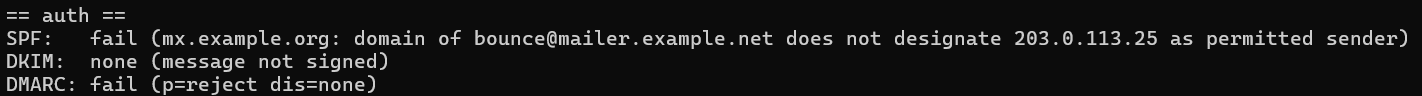
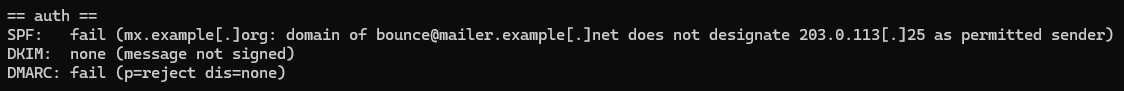
Defang output by default, add --fang and lookalike highlighting

diff --git a/oakpost.py b/oakpost.py
@@ -1,7 +1,9 @@
 """oakpost — email header triage for the person writing the sample up."""
 
+import os
 import sys
 import re
+import unicodedata
 from email import policy
 from email.parser import BytesParser
 
@@ -87,18 +89,88 @@ COMMANDS = {
 }
 
 
+# --- Display helpers -------------------------------------------------------
+# Text in, text out. They change how a value looks on screen, never what was found,
+# so the analysis above always works on the real, raw email.
+
+SCHEME_PATTERN = re.compile(r"\bhttp(s?)://", re.IGNORECASE)
+IP_PATTERN = re.compile(r"\b(\d{1,3}\.\d{1,3}\.\d{1,3})\.(\d{1,3})\b")
+DOMAIN_PATTERN = re.compile(r"\b((?:[\w-]+\.)*[\w-]+)\.([^\W\d_]{2,63})\b")
+
+def defang(text):
+    """Make links, domains and IPs safe to show: hxxps://, example[.]com, 203.0.113[.]25."""
+    text = SCHEME_PATTERN.sub(r"hxxp\1://", text)
+    text = IP_PATTERN.sub(r"\1[.]\2", text)
+    return DOMAIN_PATTERN.sub(r"\1[.]\2", text)
+
+def is_lookalike(char, word):
+    """True if char is a non-Latin stand-in for a plain letter or digit."""
+    if char.isascii() or not char.isalnum():
+        return False
+    plain = unicodedata.normalize("NFKC", char)
+    if plain.isascii() and plain.isalnum():
+        return True  # a styled copy of a plain letter, e.g. mathematical sans-serif or fullwidth
+    script = unicodedata.name(char, "").split(" ")[0]
+    # a Greek or Cyrillic letter inside an otherwise English word, e.g. the Greek T in "TV LICENSING"
+    return script != "LATIN" and any(c.isascii() and c.isalpha() for c in word)
+
+LOOKALIKE_COLOUR = "\033[1;97;41m"  # bold white on a red background
+RESET_COLOUR = "\033[0m"
+WORD_PATTERN = re.compile(r"\w+")
+
+def colour_lookalikes(text):
+    """Colour lookalike characters so they stand out in the terminal."""
+    def colour_word(match):
+        word = match.group()
+        return "".join(
+            f"{LOOKALIKE_COLOUR}{c}{RESET_COLOUR}" if is_lookalike(c, word) else c
+            for c in word
+        )
+    return WORD_PATTERN.sub(colour_word, text)
+
+def count_lookalikes(text):
+    """How many lookalike characters a value contains."""
+    return sum(
+        is_lookalike(c, word) for word in WORD_PATTERN.findall(text) for c in word
+    )
+
+
 # --- Output ----------------------------------------------------------------
 # Each takes data and prints it. None of them work anything out.
 
-def print_section(title, pairs):
-    """Print a titled block of aligned label/value lines."""
+def print_section(title, pairs, fang=False, colour=False):
+    """Print a titled block of aligned label/value lines.
+
+    Every value is defanged on the way out unless fang is True, so nothing can print
+    a live link by accident. colour marks lookalike characters (terminal only).
+    Returns how many lookalike characters it printed, for the note at the end.
+    """
     print(f"\n== {title} ==")
     if not pairs:
         print("(nothing found)")
-        return
+        return 0
     width = max(len(key) for key in pairs) + 1
+    lookalikes = 0
     for key, value in pairs.items():
+        value = str(value)
+        if not fang:
+            value = defang(value)
+        lookalikes += count_lookalikes(value)
+        if colour:
+            value = colour_lookalikes(value)
         print((key + ":").ljust(width), value)
+    return lookalikes
+
+def print_lookalike_note(count, colour):
+    """One sentence explaining lookalike letters, printed only when some were found."""
+    if not count:
+        return
+    shown = " (highlighted in red)" if colour else ""
+    print(
+        f"\nNote: {count} lookalike letter{'s' if count != 1 else ''} found{shown}. "
+        "Disguised characters are often used to dodge keyword filters. "
+        "This could be an indicator if unexpected."
+    )
 
 
 # --- Entry point -----------------------------------------------------------
@@ -117,9 +189,14 @@ def looks_like_email(msg):
 def main():
     args = sys.argv[1:]
 
+    # --fang can go anywhere in the command. It shows links live instead of defanged.
+    fang = "--fang" in args
+    args = [a for a in args if a != "--fang"]
+
     if not args:
-        print("usage: oakpost.py [command] <sample.eml>")
+        print("usage: oakpost.py [command] [--fang] <sample.eml>")
         print("commands:", ", ".join(COMMANDS))
+        print("--fang:   show links live instead of defanged (they're defanged by default)")
         return
 
     if args[0] in COMMANDS:
@@ -139,8 +216,19 @@ def main():
     if not looks_like_email(msg):
         fail(f"{path} doesn't look like an email (none of: {', '.join(EXPECTED_HEADERS)})")
 
+    # Colour only when printing straight to a terminal. Saved to a file or piped into
+    # another tool, the colour codes would show up as junk characters.
+    colour = sys.stdout.isatty() and "NO_COLOR" not in os.environ
+    if colour and os.name == "nt":
+        os.system("")  # switches on colour support in the older Windows console
+
+    if fang:
+        print("WARNING: --fang is on, so links below are live. Don't click them.")
+
+    lookalikes = 0
     for name in chosen:
-        print_section(name, COMMANDS[name](msg))
+        lookalikes += print_section(name, COMMANDS[name](msg), fang=fang, colour=colour)
+    print_lookalike_note(lookalikes, colour)
 
 
 if __name__ == "__main__":

diff --git a/README.md b/README.md
@@ -16,7 +16,7 @@ It runs locally and only reads the file you give it. Nothing is uploaded anywher
 
 1. **Load** — oakpost reads the `.eml` file and parses it into a message.
 2. **Analyse** — each command is one small function that takes the message and returns its findings. None of them print anything, so each can be tested on its own.
-3. **Print** — one output function prints whatever the analysis returned, as a titled section.
+3. **Print** — one output function prints whatever the analysis returned, as a titled section. On the way out it defangs every link, domain and IP, and highlights lookalike characters in colour.
 
 Run it with no command and it runs every analysis. Name a command and you get just that section.
 
@@ -37,13 +37,13 @@ Catching a link that pretends to be somewhere else:
 $ python oakpost.py urls examples/demo.eml
 
 == urls ==
-1: https://www.example.com/storage  (plain, html)
-2: https://login.example.net/mailbox/verify  (html, <a href="https://login.example.net/mailbox/verify">https://www.example.com/storage</a>)
+1: hxxps://www.example[.]com/storage  (plain, html)
+2: hxxps://login.example[.]net/mailbox/verify  (html, <a href="hxxps://login.example[.]net/mailbox/verify">hxxps://www.example[.]com/storage</a>)
 ```
 
 ![urls catching a link whose text pretends to be somewhere else](images/oakpost-hidden-link.png)
 
-Line 2 is the trick: the reader sees `https://www.example.com/storage`, but the link goes to `login.example.net`. The plain-text version only has the honest link, so anyone checking that version sees nothing wrong.
+Line 2 is the trick: the reader sees `hxxps://www.example[.]com/storage`, but the link goes to `login.example[.]net`. The plain-text version only has the honest link, so anyone checking that version sees nothing wrong.
 
 Checking authentication on its own:
 
@@ -59,7 +59,27 @@ Everything at once:
 python oakpost.py examples/demo.eml
 ```
 
-> **Warning:** links are not defanged yet, so they print live and some terminals make them clickable. Don't click them. Defanging by default is on the roadmap.
+Spotting lookalike letters:
+
+```bash
+python oakpost.py headers examples/lookalike-demo.eml
+```
+
+[`examples/lookalike-demo.eml`](examples/lookalike-demo.eml) is a second test email. Its sender name and subject swap some letters for lookalikes from other parts of Unicode: a Greek `Τ` and `Ρ`, a Greek `ο`, and a mathematical `𝗉`. They read as normal English, but a filter matching the plain words would miss them. In a terminal, oakpost highlights each one in red, and whenever it finds any it ends with a one-line note saying how many and what they mean.
+
+Showing links live:
+
+```bash
+python oakpost.py urls --fang examples/demo.eml
+```
+
+`--fang` turns defanging off, for when you need a live link to paste into a tool like urlscan.io or VirusTotal. It works with any command, anywhere in the line, and prints a warning first.
+
+## Defanging
+
+Everything oakpost prints is defanged by default: `https://` becomes `hxxps://`, and the last dot of every domain and IP becomes `[.]`, so `login.example[.]net` and `203.0.113[.]25`. This is the main design decision behind oakpost. A triage tool shouldn't print clickable phishing links, and most email parsers do. Defanging happens in the one output function, so no command can print a live link by accident.
+
+Only the display changes. Every analysis still works on the real email, and `--fang` shows the original links when you ask for them.
 
 ## Installation
 
@@ -78,15 +98,18 @@ python oakpost.py examples/demo.eml
 - [x] `auth` — SPF, DKIM and DMARC verdicts
 - [x] Fail cleanly on a missing, unreadable or non-email file
 - [x] `urls` — links from both the plain-text and HTML parts
-- [ ] `iocs` — domains and IPs, deduplicated
-- [ ] Defang everything by default (`hxxps://`, `evil[.]com`), with no flag to turn it off
-- [ ] `--format markdown` — an IOC table that pastes straight into a write-up
+- [x] Defang everything by default (`hxxps://`, `evil[.]com`)
+- [x] `--fang` to show links live when you need them
+- [x] Highlight lookalike characters in colour
+- [ ] `--format markdown` — output that pastes straight into a write-up
 - [ ] Tag v0.1.0
 
 ## Known limits
 
 - `urls` only reads `href="..."` written with double quotes. That covers almost all real email, but not every possible HTML.
 - One file at a time.
+- Lookalike highlighting needs a terminal that shows colour. It's switched off when the output is saved to a file or piped into another tool, and when `NO_COLOR` is set.
+- Lookalikes are only highlighted when they're styled copies of plain letters, or non-Latin letters inside an otherwise English word. Genuine Greek or Russian text and accented letters (é, ü) are left alone.
 
 ## Licence
 
